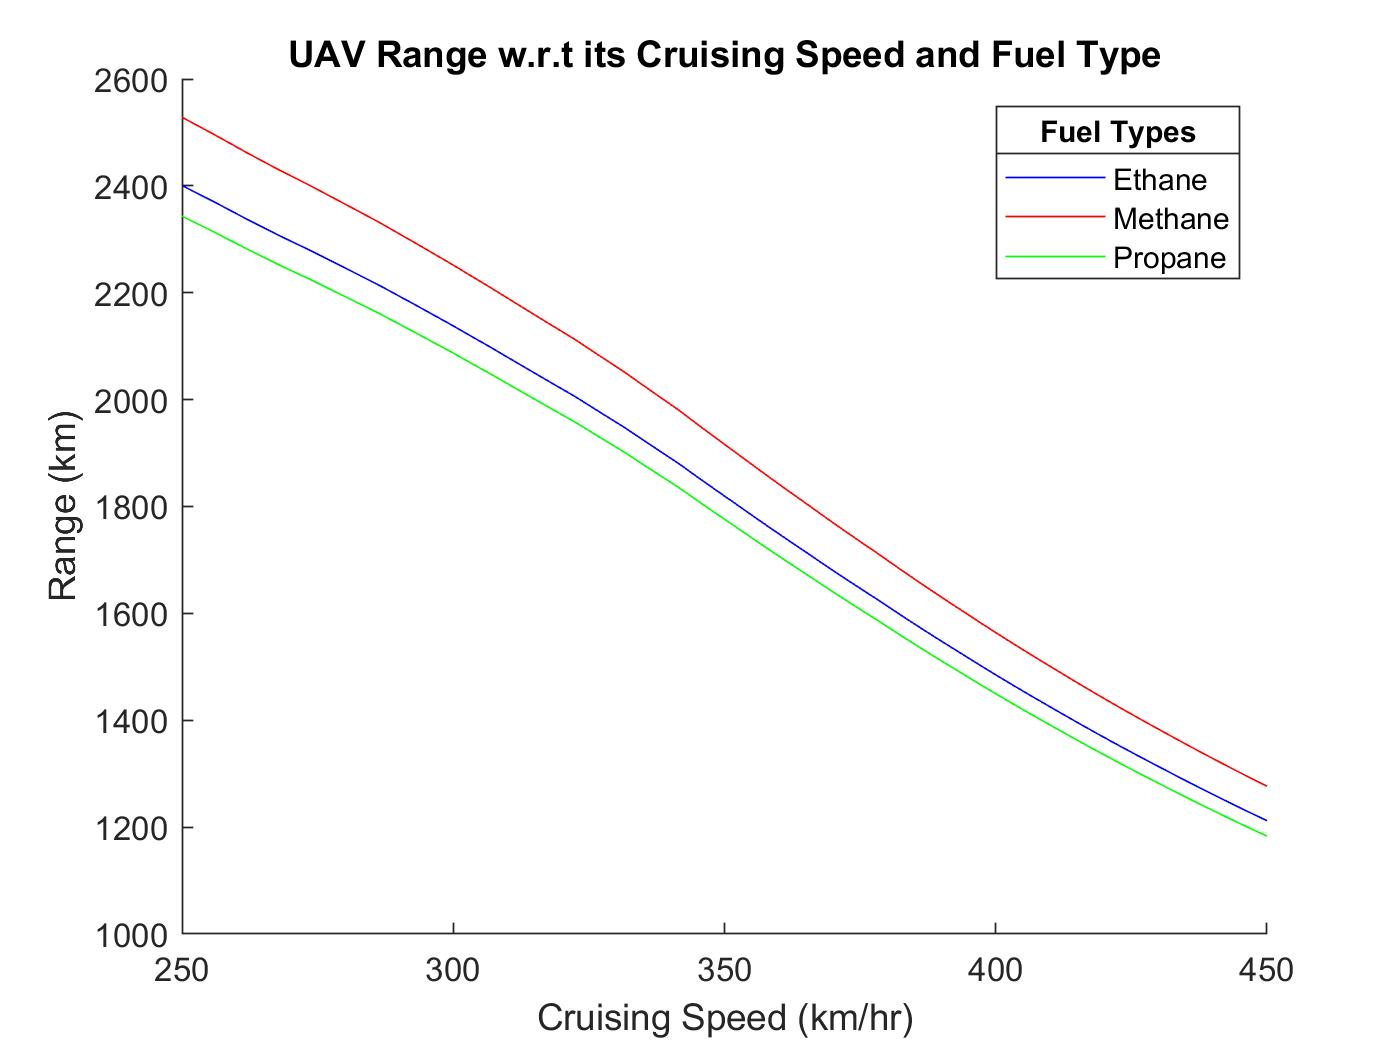
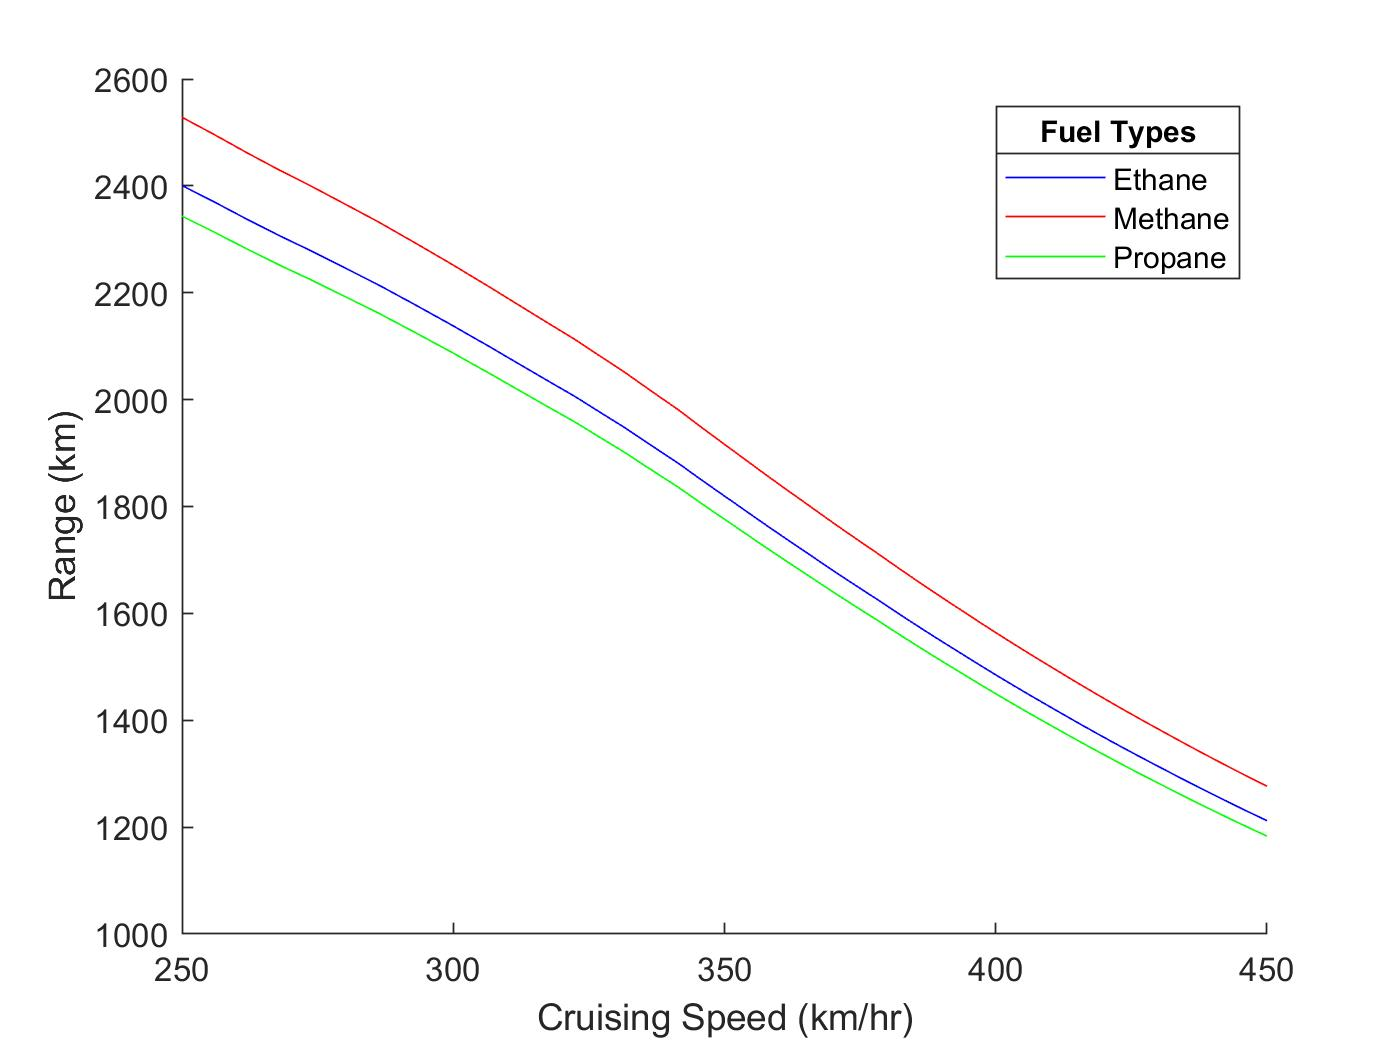
Getting rid of the title for the graph

Changed region(s): [[0.1843, 0.0305, 0.8293, 0.0914]]

diff --git a/Main_part_2.m b/Main_part_2.m
@@ -57,7 +57,7 @@ hold on
 plot(v,range(1,:),'b')  %   plotted seperately only so i could choose the colors
 plot(v,range(2,:),'r')  %   could be plotted easier with plot(v,range)
 plot(v,range(3,:),'g')
-title('UAV Range w.r.t its Cruising Speed and Fuel Type')
+% title('UAV Range w.r.t its Cruising Speed and Fuel Type')
 xlabel('Cruising Speed (km/hr)')
 ylabel('Range (km)')
 legend('Ethane','Methane','Propane')
